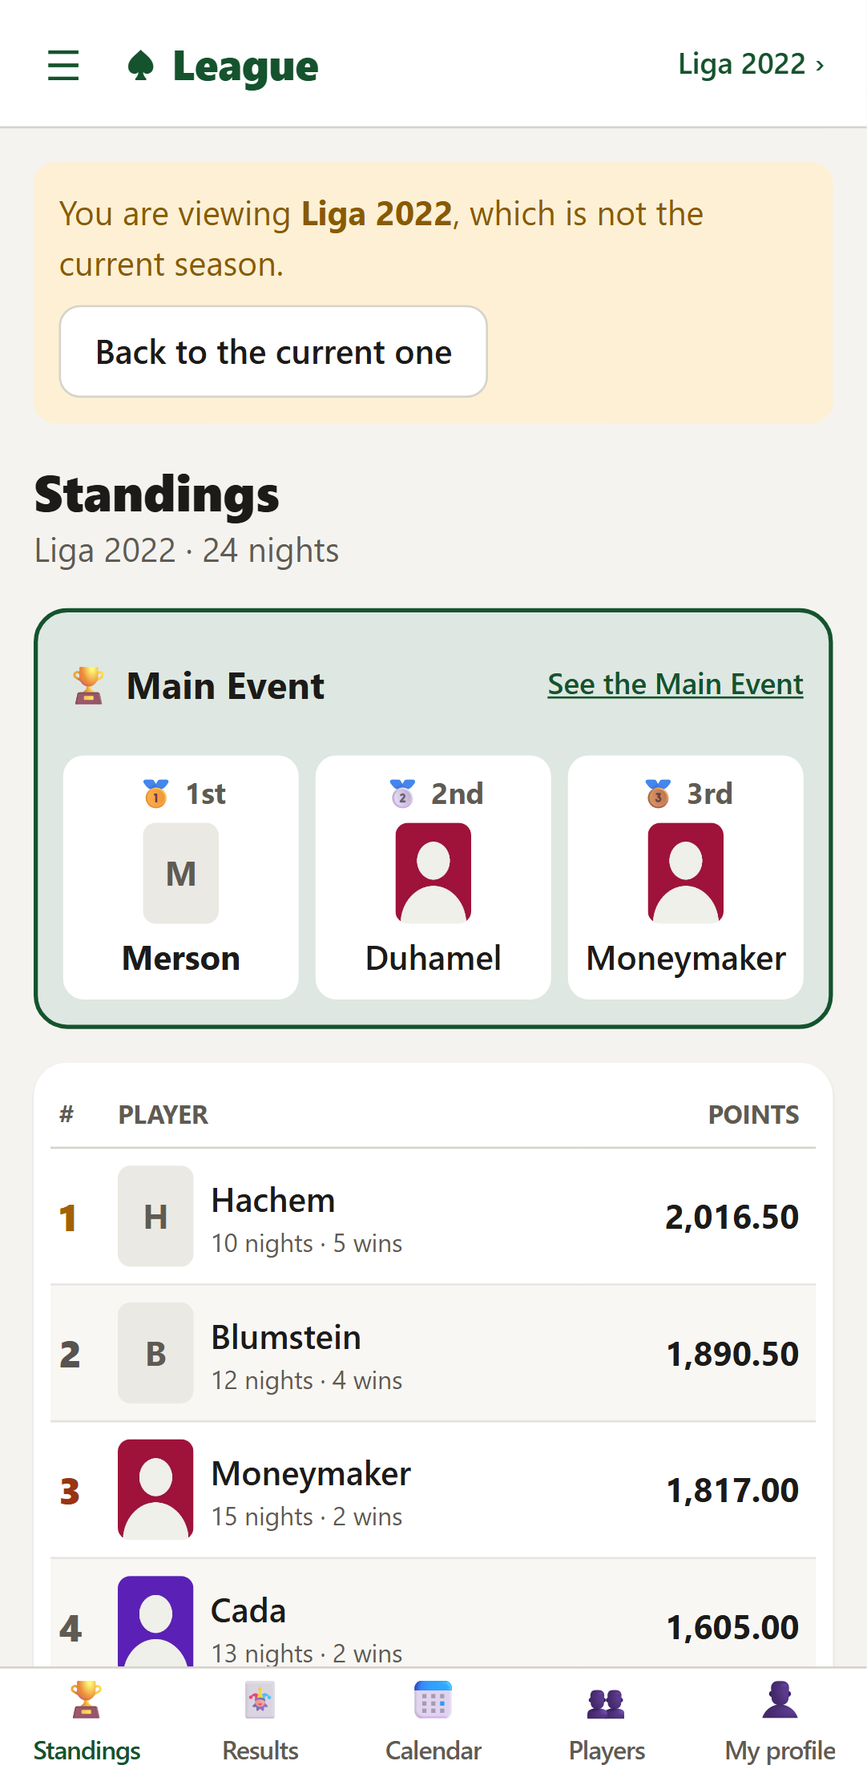
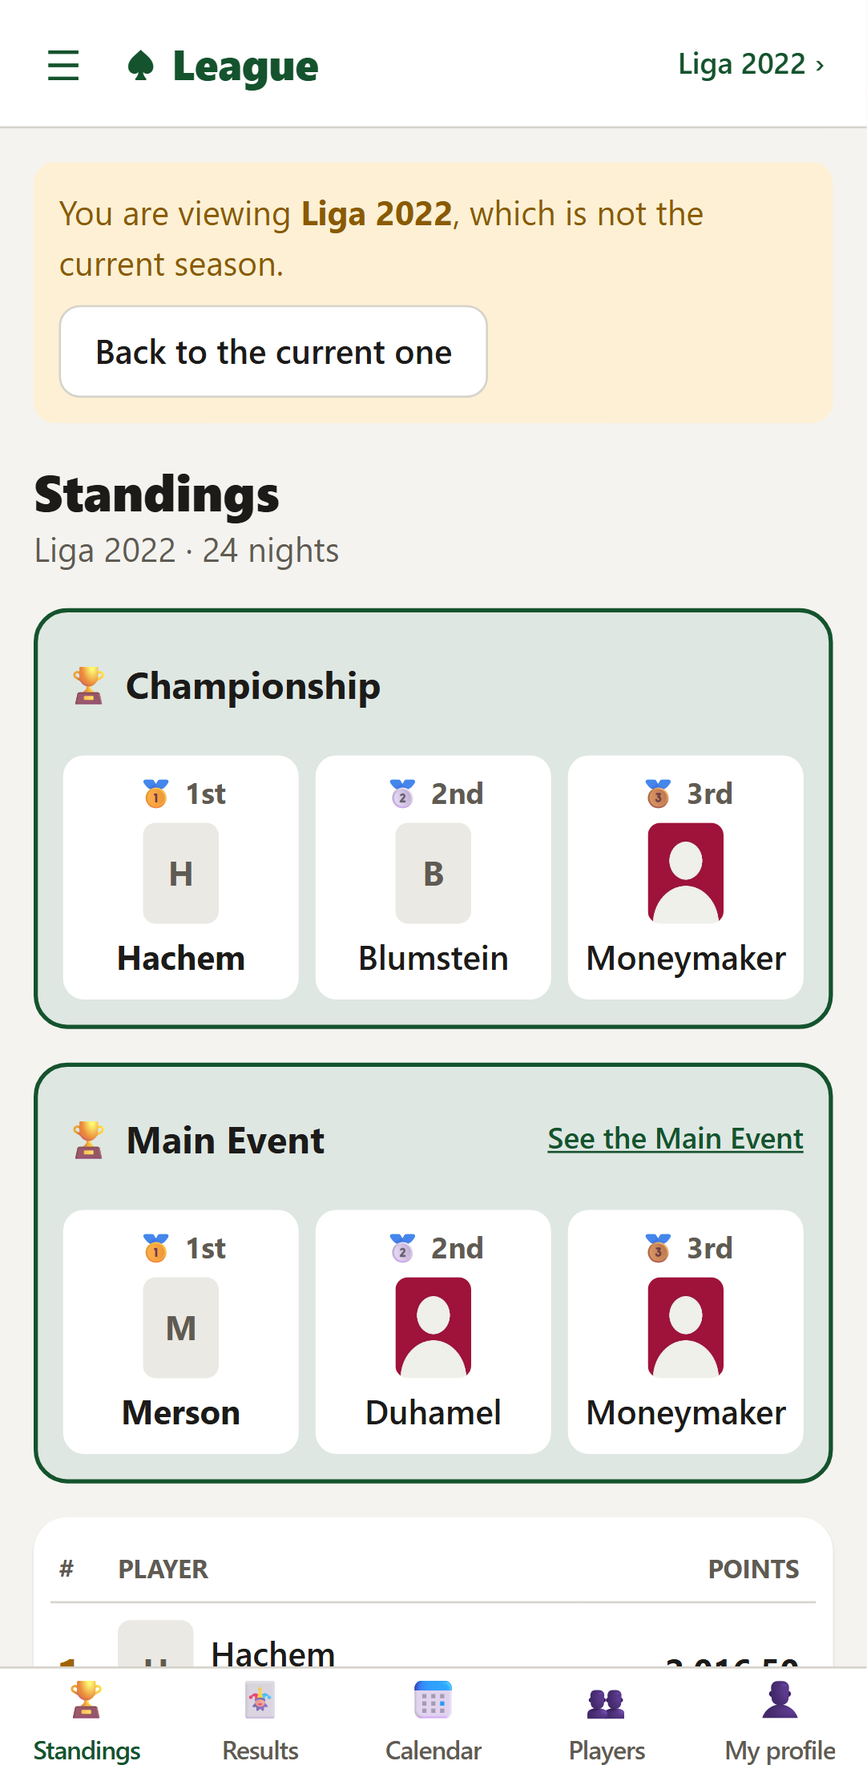
Open the statistics on "Geral", with "Campeonatos" and the champions' box
"Estatísticas" now opens on "Geral", which comes first in the switch; the menu
marks it on "Temporada" too. "Geral" has a "Campeonatos" tab with the titles,
podiums and appearances of the finished seasons. A finished season's
"Classificação" shows its first three with medals, before the Main Event box,
which now shares the same component.

Claude-Session: https://claude.ai/code/session_01SCyrko8p8cfUmpXMRZMqfn

diff --git a/frontend/tests/statistics.spec.ts b/frontend/tests/statistics.spec.ts
@@ -10,7 +10,13 @@ test('a player sees the statistics of a season and of every season', async ({ pa
   if ((await link.count()) === 0) await page.getByRole('button', { name: 'Menu' }).click()
   await link.first().click()
   await expect(page.getByRole('heading', { name: 'Estatísticas', level: 1 })).toBeVisible()
+  // "Geral" is the first view, and the one the menu opens.
+  await expect(page).toHaveURL(/\/statistics\/all$/)
+  const period = page.getByRole('navigation', { name: 'Período' }).getByRole('link')
+  await expect(period).toHaveText(['Geral', 'Temporada'])
 
+  await period.filter({ hasText: 'Temporada' }).click()
+  await expect(page).toHaveURL(/\/statistics$/)
   await pickSeason(page, 'Liga 2022')
   await expect(page).toHaveURL(/\/statistics$/)
   // The totals: the nights counted and their pot.
@@ -58,12 +64,12 @@ test('a player sees the statistics of a season and of every season', async ({ pa
   await expect(page.getByText('Nenhum registrado no painel do evento.')).toHaveCount(3)
   await expect(page.getByRole('term').filter({ hasText: /^Rebuys$/ }).locator('xpath=..').getByRole('definition')).toHaveText('0')
 
-  await page.getByRole('navigation', { name: 'Período' }).getByRole('link', { name: 'Geral' }).click()
+  await period.filter({ hasText: 'Geral' }).click()
   await expect(page).toHaveURL(/\/statistics\/all$/)
   await expect(page.getByText('Todas as temporadas')).toBeVisible()
   await expect(seasonNotice(page)).toHaveCount(0)
   await expect(page.getByRole('img', { name: /pontos acumulados.*por temporada/ })).toBeVisible()
-  await expect(tabs).toHaveText(['Posições', 'Jogadores', 'Eventos', 'Rebuys', 'Main Event'])
+  await expect(tabs).toHaveText(['Posições', 'Jogadores', 'Eventos', 'Rebuys', 'Campeonatos', 'Main Event'])
 
   // The rebuys and the late players the night dashboard recorded in the season in play.
   await tabs.filter({ hasText: 'Rebuys' }).click()
@@ -79,6 +85,14 @@ test('a player sees the statistics of a season and of every season', async ({ pa
   await expect(page.getByRole('img', { name: /^Gráfico de linha: pote por temporada/ })).toBeVisible()
   await expect(page.getByRole('table', { name: 'Eventos por pote' }).getByRole('row').nth(1)).toContainText('Liga')
   await expect(page.getByRole('img', { name: /^Gráfico de linhas: rebuys e time chips por atraso por temporada/ })).toBeVisible()
+
+  // The final standings of the finished seasons: who won, who was in the first three and who scored.
+  await tabs.filter({ hasText: 'Campeonatos' }).click()
+  for (const title of ['Títulos', 'Pódios', 'Participações']) {
+    await expect(page.getByRole('heading', { name: title, level: 2 })).toBeVisible()
+  }
+  await expect(page.getByRole('table', { name: 'Jogadores por temporadas terminadas em 1º lugar' }).getByRole('row').nth(1)).toContainText('1')
+  await expectAccessible(page)
 
   // The Main Events of every season: who won, who was in the first three and who played.
   await tabs.filter({ hasText: 'Main Event' }).click()

diff --git a/frontend/src/features/mainEvent/MainEventPodium.tsx b/frontend/src/features/mainEvent/MainEventPodium.tsx
@@ -1,35 +1,19 @@
 import { Link } from 'react-router'
 import type { Night } from '@/api/client'
-import { PlayerLink } from '@/components/PlayerLink'
-import { PlayerThumbnail } from '@/components/PlayerThumbnail'
+import { Podium } from '@/components/Podium'
 import { t } from '@/i18n'
-import { ordinal, titleOfNight } from '@/lib/format'
+import { titleOfNight } from '@/lib/format'
 import { useSeasonPath } from '@/lib/seasonPath'
 
-const medals = ['🥇', '🥈', '🥉']
-
-/**
- * The first three of a season's finished Main Event, above the standings, with the way to "Main Event".
- * It is a band of three players side by side, not a table, so that it does not read as part of the standings.
- */
+/** The first three of a season's finished Main Event, above the standings, with the way to "Main Event". */
 export function MainEventPodium({ night }: { night: Night }) {
-  const podium = (night.main_event_positions ?? []).slice(0, medals.length)
   const to = useSeasonPath()
   return (
-    <section className="min-w-0 rounded-lg border-2 border-primary bg-primary-soft p-3 sm:p-4">
-      <header className="mb-3 flex flex-wrap items-center justify-between gap-x-3">
-        <h2 className="font-display text-lg font-bold"><span aria-hidden="true">🏆 </span>{t.mainEvent.title}</h2>
-        <Link to={to('/main-event')} className="inline-flex min-h-touch items-center text-sm font-semibold text-primary underline">{t.mainEvent.seeMainEvent}</Link>
-      </header>
-      <ol aria-label={t.mainEvent.resultCaption({ night: titleOfNight(night) })} className="grid grid-cols-3 gap-2">
-        {podium.map((line, i) => (
-          <li key={line.position} className="flex min-w-0 flex-col items-center gap-1 rounded-md bg-surface p-2 text-center">
-            <span className="text-sm font-bold text-muted tabular"><span aria-hidden="true">{medals[i]} </span>{ordinal(line.position)}</span>
-            <PlayerThumbnail player={line.player} />
-            <PlayerLink player={line.player} className={`max-w-full ${line.position === 1 ? 'font-bold' : 'font-semibold'}`} />
-          </li>
-        ))}
-      </ol>
-    </section>
+    <Podium
+      title={t.mainEvent.title}
+      caption={t.mainEvent.resultCaption({ night: titleOfNight(night) })}
+      action={<Link to={to('/main-event')} className="inline-flex min-h-touch items-center text-sm font-semibold text-primary underline">{t.mainEvent.seeMainEvent}</Link>}
+      lines={(night.main_event_positions ?? []).map((line) => ({ rank: line.position, player: line.player }))}
+    />
   )
 }

diff --git a/frontend/src/features/statistics/StatisticsPage.tsx b/frontend/src/features/statistics/StatisticsPage.tsx
@@ -40,7 +40,7 @@ function StatisticsScreen({ subtitle, allTime, query }: { subtitle: string; allT
   return (
     <>
       <PageHeader title={t.statistics.title} subtitle={subtitle} />
-      <PeriodSwitch seasonTo={to('/statistics')} allTimeTo="/statistics/all" allTime={allTime} />
+      <PeriodSwitch seasonTo={to('/statistics')} allTimeTo="/statistics/all" allTime={allTime} allTimeFirst />
       {query.isPending ? <Loading /> : query.error ? <ErrorBox error={query.error} /> : <StatisticsView statistics={query.data!} />}
     </>
   )
@@ -88,6 +88,8 @@ export function StatisticsView({ statistics }: { statistics: Statistics }) {
   const allTime = statistics.season_id === null
   // One season has one Main Event, which makes no list: the Main Event lists are of every season.
   const mainEvent = allTime && statistics.main_event && statistics.main_event.count > 0 ? statistics.main_event : null
+  // The final standings of the finished seasons; a season's own are on "Classificação".
+  const championships = statistics.championships && statistics.championships.count > 0 ? statistics.championships : null
   const hasNights = statistics.nights_count > 0
   if (!hasNights && !mainEvent) return <Empty>{t.statistics.noNights}</Empty>
 
@@ -174,6 +176,19 @@ export function StatisticsView({ statistics }: { statistics: Statistics }) {
           {rebuys.time_chips && (
             <CountList title={t.statistics.timeChips} caption={t.statistics.timeChipsCaption} valueHeader={t.statistics.times} list={rebuys.time_chips} empty={t.statistics.noneRecorded} />
           )}
+        </div>
+      ),
+    })
+  }
+  if (championships) {
+    tabs.push({
+      id: 'championships',
+      title: t.statistics.championships,
+      content: (
+        <div className="grid grid-cols-2 gap-x-8 gap-y-5 md:grid-cols-3">
+          <CountList title={t.statistics.championshipTitles} caption={t.statistics.championshipTitlesCaption} valueHeader={t.statistics.times} list={championships.titles} />
+          <CountList title={t.statistics.championshipPodiums} caption={t.statistics.championshipPodiumsCaption} valueHeader={t.statistics.times} list={championships.podiums} />
+          <CountList title={t.statistics.championshipAppearances} caption={t.statistics.championshipAppearancesCaption} valueHeader={t.statistics.times} list={championships.appearances} />
         </div>
       ),
     })

diff --git a/frontend/src/features/layout/navigation.test.ts b/frontend/src/features/layout/navigation.test.ts
@@ -1,6 +1,6 @@
 import { afterEach, expect, it } from 'vitest'
 import { overrideFeatures } from '@/lib/features'
-import { navItemsFor } from './navigation'
+import { isAlsoActive, navItemsFor } from './navigation'
 
 let restore = () => {}
 afterEach(() => restore())
@@ -10,13 +10,13 @@ const bar = (flag: 'tab' | 'top') => navItemsFor('player').filter((item) => item
 
 it('has "Meu perfil" on both bars, the last one, and the simulator only in the left menu', () => {
   expect(bar('tab')).toEqual(['/', '/results', '/calendar', '/players', '/profile'])
-  expect(bar('top')).toEqual(['/', '/results', '/calendar', '/statistics', '/players', '/seasons', '/profile'])
+  expect(bar('top')).toEqual(['/', '/results', '/calendar', '/statistics/all', '/players', '/seasons', '/profile'])
   expect(paths('player')).toContain('/simulator')
 })
 
 it('keeps the screens of a season together, before "Jogadores" and "Temporadas"', () => {
   restore = overrideFeatures({ mainEvent: true })
-  expect(paths('player')).toEqual(['/', '/results', '/calendar', '/simulator', '/main-event', '/statistics', '/players', '/seasons', '/profile'])
+  expect(paths('player')).toEqual(['/', '/results', '/calendar', '/simulator', '/main-event', '/statistics/all', '/players', '/seasons', '/profile'])
 })
 
 it('lists "Main Event" only on a site that has it', () => {
@@ -26,6 +26,14 @@ it('lists "Main Event" only on a site that has it', () => {
   restore()
   restore = overrideFeatures({ mainEvent: true })
   expect(paths('player')).toContain('/main-event')
+})
+
+it('opens "Estatísticas" on "Geral", and marks it on "Temporada" too, in any season', () => {
+  const statistics = navItemsFor('player').find((item) => item.to === '/statistics/all')!
+  expect(isAlsoActive(statistics, '/statistics')).toBe(true)
+  expect(isAlsoActive(statistics, '/seasons/7/statistics')).toBe(true)
+  expect(isAlsoActive(statistics, '/results')).toBe(false)
+  expect(isAlsoActive(navItemsFor('player')[0], '/statistics')).toBe(false)
 })
 
 it('lists the admin section only for an admin', () => {

diff --git a/frontend/src/features/statistics/StatisticsPage.stories.tsx b/frontend/src/features/statistics/StatisticsPage.stories.tsx
@@ -6,15 +6,24 @@ import { PositionTable } from './PositionTable'
 import { PlacesChart, PointsProgressChart, PotsChart, WinsChart } from './StatisticsCharts'
 import { AllTimeStatisticsPage, StatisticsPage, StatisticsView } from './StatisticsPage'
 
-// "Estatísticas": the totals, the charts and the top ten lists in tabs, for the selected season
-// ("Temporada") or every season ("Geral").
+// "Estatísticas": the totals, the charts and the top ten lists in tabs, for every season ("Geral", the first view)
+// or the selected season ("Temporada").
 const meta = { title: 'Screens/Statistics', parameters: { layout: 'fullscreen' } } satisfies Meta
 export default meta
 
 export const Season: StoryObj = { render: () => <RouterStory path="/statistics" url="/statistics" element={<StatisticsPage />} /> }
 
-/** One step per season on the line charts, the season under each pot, "Outros" under the bar chart, and the Main Event lists. */
+/** One step per season on the line charts, the season under each pot, "Outros" under the bar chart, and the championship and Main Event lists. */
 export const AllTime: StoryObj = { render: () => <RouterStory path="/statistics/all" url="/statistics/all" element={<AllTimeStatisticsPage />} /> }
+
+/** "Campeonatos", over every season: the titles, the podiums and the appearances in the final standings of the finished seasons. */
+export const Championships: StoryObj = {
+  render: () => <RouterStory path="/statistics/all" url="/statistics/all" element={<AllTimeStatisticsPage />} />,
+  play: async ({ canvas, userEvent }) => {
+    await userEvent.click(await canvas.findByRole('tab', { name: 'Campeonatos' }))
+    await canvas.findByRole('table', { name: 'Jogadores por temporadas terminadas em 1º lugar' })
+  },
+}
 
 /** The "Rebuys" tab: the rebuys, the rebuys past the limit and the late time chips the night dashboard recorded. */
 export const Rebuys: StoryObj = {

diff --git a/frontend/src/features/layout/navigation.ts b/frontend/src/features/layout/navigation.ts
@@ -1,5 +1,6 @@
 import { t } from '@/i18n'
 import { hasFeature } from '@/lib/features'
+import { splitSeasonPath } from '@/lib/seasonPath'
 import type { FeatureName } from '@/site/features'
 
 /**
@@ -12,6 +13,8 @@ export interface NavItem {
   icon: string
   /** Active only on this exact path. */
   end?: boolean
+  /** Also active on this season screen, in any season: "Estatísticas" opens on "Geral" and is active on "Temporada" too. */
+  alsoActiveOn?: string
   tab?: boolean
   top?: boolean
   adminOnly?: boolean
@@ -26,12 +29,17 @@ export const navItems: NavItem[] = [
   { to: '/calendar', label: t.layout.nav.calendar, icon: '📅', tab: true, top: true },
   { to: '/simulator', label: t.layout.nav.simulator, icon: '🔮' },
   { to: '/main-event', label: t.layout.nav.mainEvent, icon: '🏅', feature: 'mainEvent' },
-  { to: '/statistics', label: t.layout.nav.statistics, icon: '📊', top: true },
+  { to: '/statistics/all', alsoActiveOn: '/statistics', label: t.layout.nav.statistics, icon: '📊', top: true },
   { to: '/players', label: t.layout.nav.players, icon: '👥', tab: true, top: true },
   { to: '/seasons', label: t.layout.nav.seasons, icon: '🗂', end: true, top: true },
   { to: '/profile', label: t.layout.nav.profile, icon: '👤', tab: true, top: true },
   { to: '/admin', label: t.layout.nav.admin, icon: '⚙', top: true, adminOnly: true },
 ]
+
+/** Whether a menu item is active on a path beyond what its link matches (`alsoActiveOn`). */
+export function isAlsoActive(item: NavItem, pathname: string): boolean {
+  return item.alsoActiveOn !== undefined && splitSeasonPath(pathname).screen === item.alsoActiveOn
+}
 
 export function navItemsFor(role: string | undefined): NavItem[] {
   return navItems.filter((item) => (!item.adminOnly || role === 'admin') && (!item.feature || hasFeature(item.feature)))

diff --git a/frontend/src/features/layout/AppLayout.tsx b/frontend/src/features/layout/AppLayout.tsx
@@ -6,7 +6,7 @@ import { t } from '@/i18n'
 import { isSeasonScreen, splitSeasonPath, useSeasonPath } from '@/lib/seasonPath'
 import { setSelectedSeasonId } from '@/lib/selectedSeason'
 import { NavDrawer } from './NavDrawer'
-import { navItemsFor } from './navigation'
+import { isAlsoActive, navItemsFor } from './navigation'
 import { SeasonNotice } from './SeasonNotice'
 import { SiteFooter } from './SiteFooter'
 import { useSelectedSeason } from './useSelectedSeason'
@@ -49,7 +49,7 @@ export function AppLayout() {
           <nav aria-label={t.layout.mainNav} className="hidden flex-wrap gap-1 sm:flex">
             {items.filter((item) => item.top).map((item) => (
               // Words only: with the menu button and the season name, the icons do not fit the top bar.
-              <NavLink key={item.to} to={to(item.to)} end={item.end} className={linkClass}>
+              <NavLink key={item.to} to={to(item.to)} end={item.end} className={({ isActive }) => linkClass({ isActive: isActive || isAlsoActive(item, location.pathname) })}>
                 {item.label}
               </NavLink>
             ))}
@@ -76,7 +76,7 @@ export function AppLayout() {
 
       <nav aria-label={t.layout.mainNav} className="fixed inset-x-0 bottom-0 z-20 flex border-t border-border bg-surface pb-[env(safe-area-inset-bottom)] sm:hidden">
         {items.filter((item) => item.tab).map((item) => (
-          <NavLink key={item.to} to={to(item.to)} end={item.end} className={linkClass}>
+          <NavLink key={item.to} to={to(item.to)} end={item.end} className={({ isActive }) => linkClass({ isActive: isActive || isAlsoActive(item, location.pathname) })}>
             <span aria-hidden className="text-lg">{item.icon}</span>
             <span className="max-w-full truncate font-medium tracking-tight">{item.label}</span>
           </NavLink>

diff --git a/frontend/src/components/Podium.tsx b/frontend/src/components/Podium.tsx
@@ -1,0 +1,31 @@
+import { useId, type ReactNode } from 'react'
+import { PlayerLink } from './PlayerLink'
+import { PlayerThumbnail } from './PlayerThumbnail'
+import { medals, podiumLines, type PodiumLine } from './podiumLines'
+import { ordinal } from '@/lib/format'
+
+/**
+ * The first three of a result, with a medal each, above the standings: the season's final standings
+ * ("Campeonato") and its Main Event. It is a band of players side by side, not a table, so that it does not read
+ * as part of the standings.
+ */
+export function Podium({ title, caption, action, lines }: { title: string; caption: string; action?: ReactNode; lines: PodiumLine[] }) {
+  const heading = useId()
+  return (
+    <section aria-labelledby={heading} className="min-w-0 rounded-lg border-2 border-primary bg-primary-soft p-3 sm:p-4">
+      <header className="mb-3 flex min-h-touch flex-wrap items-center justify-between gap-x-3">
+        <h2 id={heading} className="font-display text-lg font-bold"><span aria-hidden="true">🏆 </span>{title}</h2>
+        {action}
+      </header>
+      <ol aria-label={caption} className="grid grid-cols-3 gap-2">
+        {podiumLines(lines).map((line) => (
+          <li key={line.player.id} className="flex min-w-0 flex-col items-center gap-1 rounded-md bg-surface p-2 text-center">
+            <span className="text-sm font-bold text-muted tabular"><span aria-hidden="true">{medals[line.rank - 1]} </span>{ordinal(line.rank)}</span>
+            <PlayerThumbnail player={line.player} />
+            <PlayerLink player={line.player} className={`max-w-full ${line.rank === 1 ? 'font-bold' : 'font-semibold'}`} />
+          </li>
+        ))}
+      </ol>
+    </section>
+  )
+}

diff --git a/frontend/src/features/layout/NavDrawer.tsx b/frontend/src/features/layout/NavDrawer.tsx
@@ -1,14 +1,15 @@
 import { Button as AriaButton, Dialog, DialogTrigger, Modal, ModalOverlay } from 'react-aria-components'
-import { NavLink } from 'react-router'
+import { NavLink, useLocation } from 'react-router'
 import { Button } from '@/components/Button'
 import { t } from '@/i18n'
 import { useSeasonPath } from '@/lib/seasonPath'
-import type { NavItem } from './navigation'
+import { isAlsoActive, type NavItem } from './navigation'
 import { site } from '@/lib/site'
 
 /** The left menu: every place of the site, then the user and "Sair". Opens from the "Menu" button in the header. */
 export function NavDrawer({ items, userName, onLogout, defaultOpen }: { items: NavItem[]; userName: string; onLogout: () => void; defaultOpen?: boolean }) {
   const to = useSeasonPath()
+  const { pathname } = useLocation()
   return (
     <DialogTrigger defaultOpen={defaultOpen}>
       <AriaButton
@@ -36,7 +37,7 @@ export function NavDrawer({ items, userName, onLogout, defaultOpen }: { items: N
                       end={item.end}
                       onClick={close}
                       className={({ isActive }) =>
-                        `flex min-h-touch items-center gap-3 rounded-md px-3 py-2 font-semibold wrap-anywhere ${isActive ? 'bg-primary-soft text-primary' : 'text-text hover:bg-surface-sunken'}`
+                        `flex min-h-touch items-center gap-3 rounded-md px-3 py-2 font-semibold wrap-anywhere ${isActive || isAlsoActive(item, pathname) ? 'bg-primary-soft text-primary' : 'text-text hover:bg-surface-sunken'}`
                       }
                     >
                       <span aria-hidden className="text-lg">{item.icon}</span>

diff --git a/frontend/tests/main-event.spec.ts b/frontend/tests/main-event.spec.ts
@@ -88,7 +88,7 @@ test('an admin adds the Main Event of a season in "Administração", and its nig
   await expect(page.getByText('Extra', { exact: true })).toBeVisible()
 })
 
-test('a player sees the Main Event of a finished season and its champion in "Temporadas"', async ({ page }) => {
+test('a player sees the two champions of a finished season, and the Main Event champion in "Temporadas"', async ({ page }) => {
   await login(page, 'dev-player')
 
   await page.goto('seasons')
@@ -103,6 +103,11 @@ test('a player sees the Main Event of a finished season and its champion in "Tem
   const seasonStandings = page.url()
   const podium = page.getByRole('list', { name: /^Classificação: Main Event/ })
   await expect(podium.getByRole('listitem')).toHaveText([/1º/, /2º/, /3º/])
+  // The season champion, by points, comes first: the first three of the final standings.
+  const championship = page.getByRole('region', { name: 'Campeonato' })
+  await expect(championship.getByRole('list', { name: 'Classificação final: Liga 2025' }).getByRole('listitem').first()).toContainText('1º')
+  const boxes = page.getByRole('region', { name: /^(Campeonato|Main Event)$/ }).getByRole('heading', { level: 2 })
+  await expect(boxes).toHaveText([/Campeonato$/, /Main Event$/])
   await expectAccessible(page)
 
   // "Resultados" of a finished season has no "Próximos eventos"

diff --git a/frontend/src/components/Podium.stories.tsx b/frontend/src/components/Podium.stories.tsx
@@ -1,0 +1,29 @@
+import type { Meta, StoryObj } from '@storybook/react-vite'
+import { players, standings } from '@/mocks/data'
+import { RouterStory } from '@/mocks/RouterStory'
+import { Podium } from './Podium'
+
+// The first three of a result, with a medal each: "Campeonato" and the Main Event, above the standings.
+const meta = { title: 'Components/Podium', parameters: { layout: 'padded' } } satisfies Meta
+export default meta
+
+/** Two players share the 3rd place, so the box shows four. */
+export const SharedThirdPlace: StoryObj = {
+  render: () => <RouterStory path="/" url="/" element={<Podium title="Campeonato" caption="Classificação final: Liga 2026" lines={standings} />} />,
+}
+
+/** Two season champions, who share the 1st place. */
+export const SharedFirstPlace: StoryObj = {
+  render: () => (
+    <RouterStory
+      path="/"
+      url="/"
+      element={<Podium title="Campeonato" caption="Classificação final: Liga 2025" lines={[{ rank: 1, player: players[0] }, { rank: 1, player: players[1] }, { rank: 3, player: players[2] }]} />}
+    />
+  ),
+}
+
+/** An old Main Event of which only the champion is known. */
+export const OnlyTheChampion: StoryObj = {
+  render: () => <RouterStory path="/" url="/" element={<Podium title="Main Event" caption="Classificação: Main Event" lines={[{ rank: 1, player: players[2] }]} />} />,
+}

diff --git a/frontend/src/mocks/data.ts b/frontend/src/mocks/data.ts
@@ -353,6 +353,8 @@ export const statistics: Statistics = {
     podiums: playerList([[0, 1, 1], [2, 1, 1], [7, 1, 1]], 'count'),
     appearances: playerList([[0, 1, 1], [1, 1, 1], [2, 1, 1], [3, 1, 1], [7, 1, 1]], 'count'),
   },
+  // Only over every season.
+  championships: null,
   // What the night dashboard recorded, with a tie in each list.
   rebuys: {
     rebuy_count: 17,
@@ -406,6 +408,13 @@ export const statisticsAllTime: Statistics = {
     podiums: playerList([[0, 1, 3], [2, 1, 3], [7, 3, 2], [1, 4, 1]], 'count'),
     appearances: playerList([[0, 1, 3], [2, 1, 3], [7, 1, 3], [1, 4, 2], [3, 4, 2], [4, 4, 2], [5, 7, 1], [6, 7, 1], [8, 7, 1], [9, 7, 1]], 'count', { tied_not_shown: 1 }),
   },
+  // The final standings of Liga 2024 and Liga 2025; Liga 2026 is still open. Two champions share the titles.
+  championships: {
+    count: 2,
+    titles: playerList([[0, 1, 1], [2, 1, 1]], 'count'),
+    podiums: playerList([[0, 1, 2], [2, 1, 2], [1, 3, 1], [7, 3, 1]], 'count'),
+    appearances: playerList([[0, 1, 2], [1, 1, 2], [2, 1, 2], [4, 1, 2], [5, 1, 2], [6, 1, 2], [7, 1, 2], [3, 8, 1]], 'count'),
+  },
 }
 
 export const statisticsEmpty: Statistics = {
@@ -423,6 +432,7 @@ export const statisticsEmpty: Statistics = {
   wins_not_shown: 0,
   position_table: [],
   main_event: null,
+  championships: null,
   rebuys: null,
 }
 
